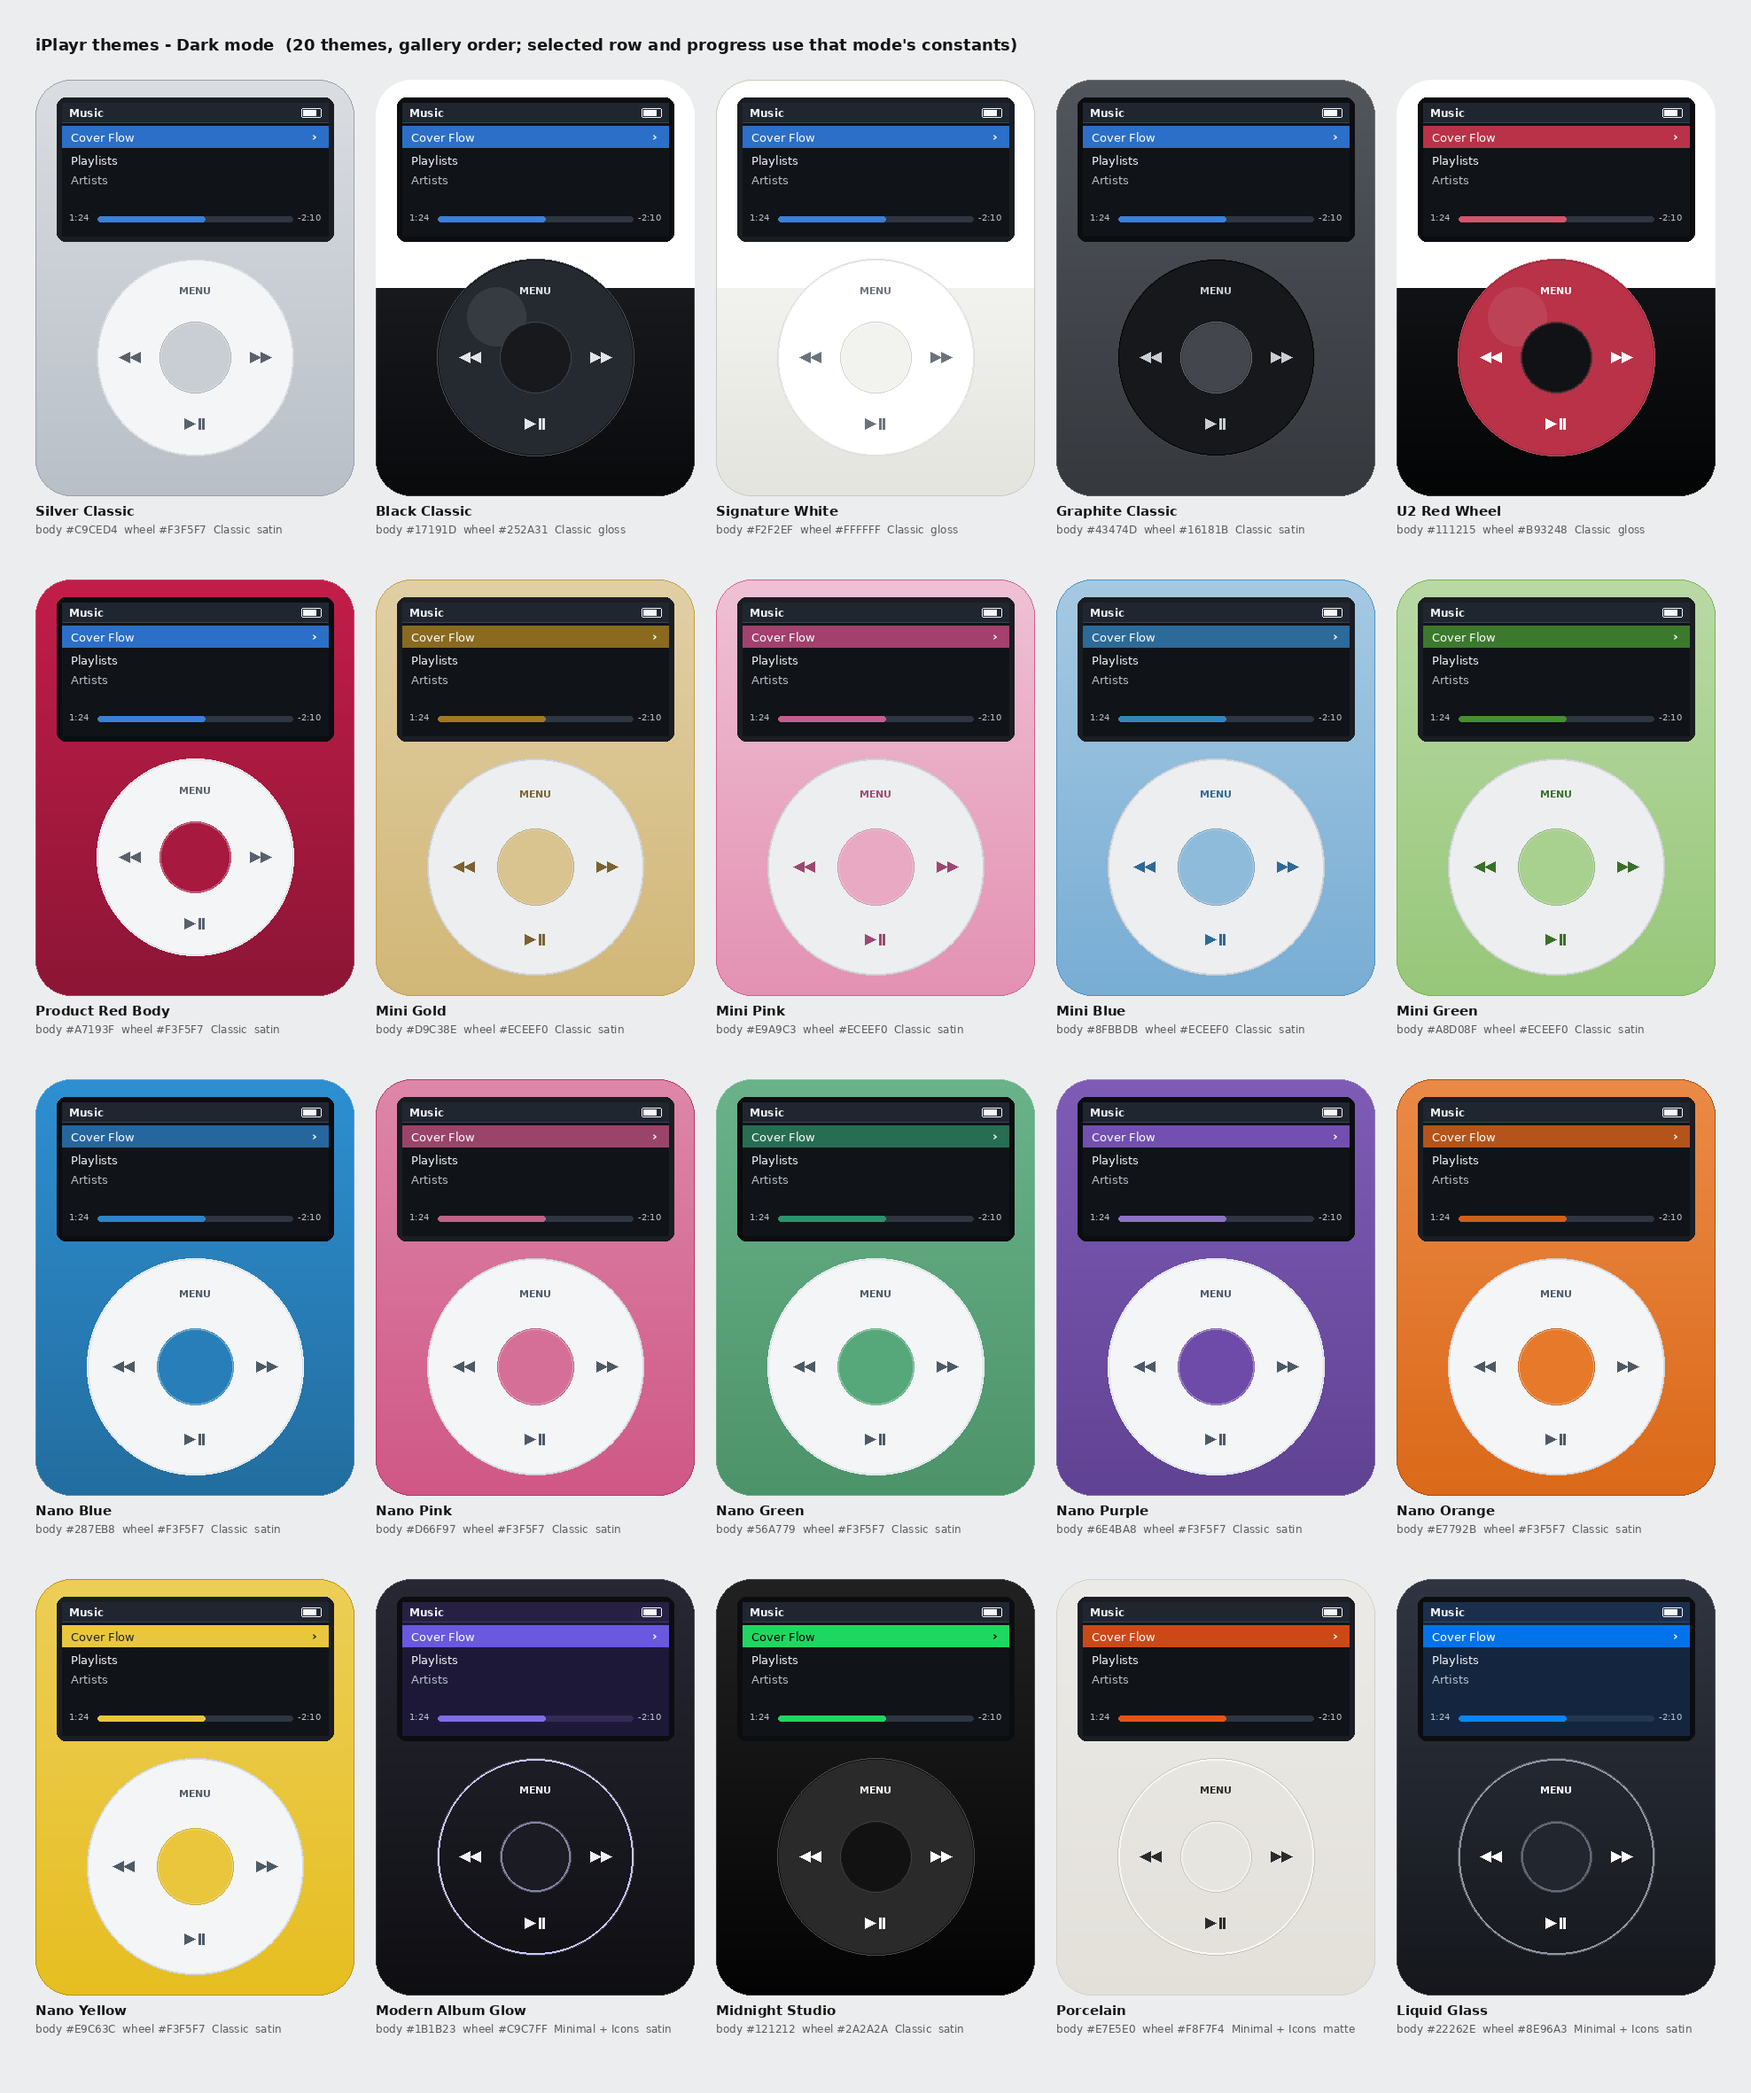
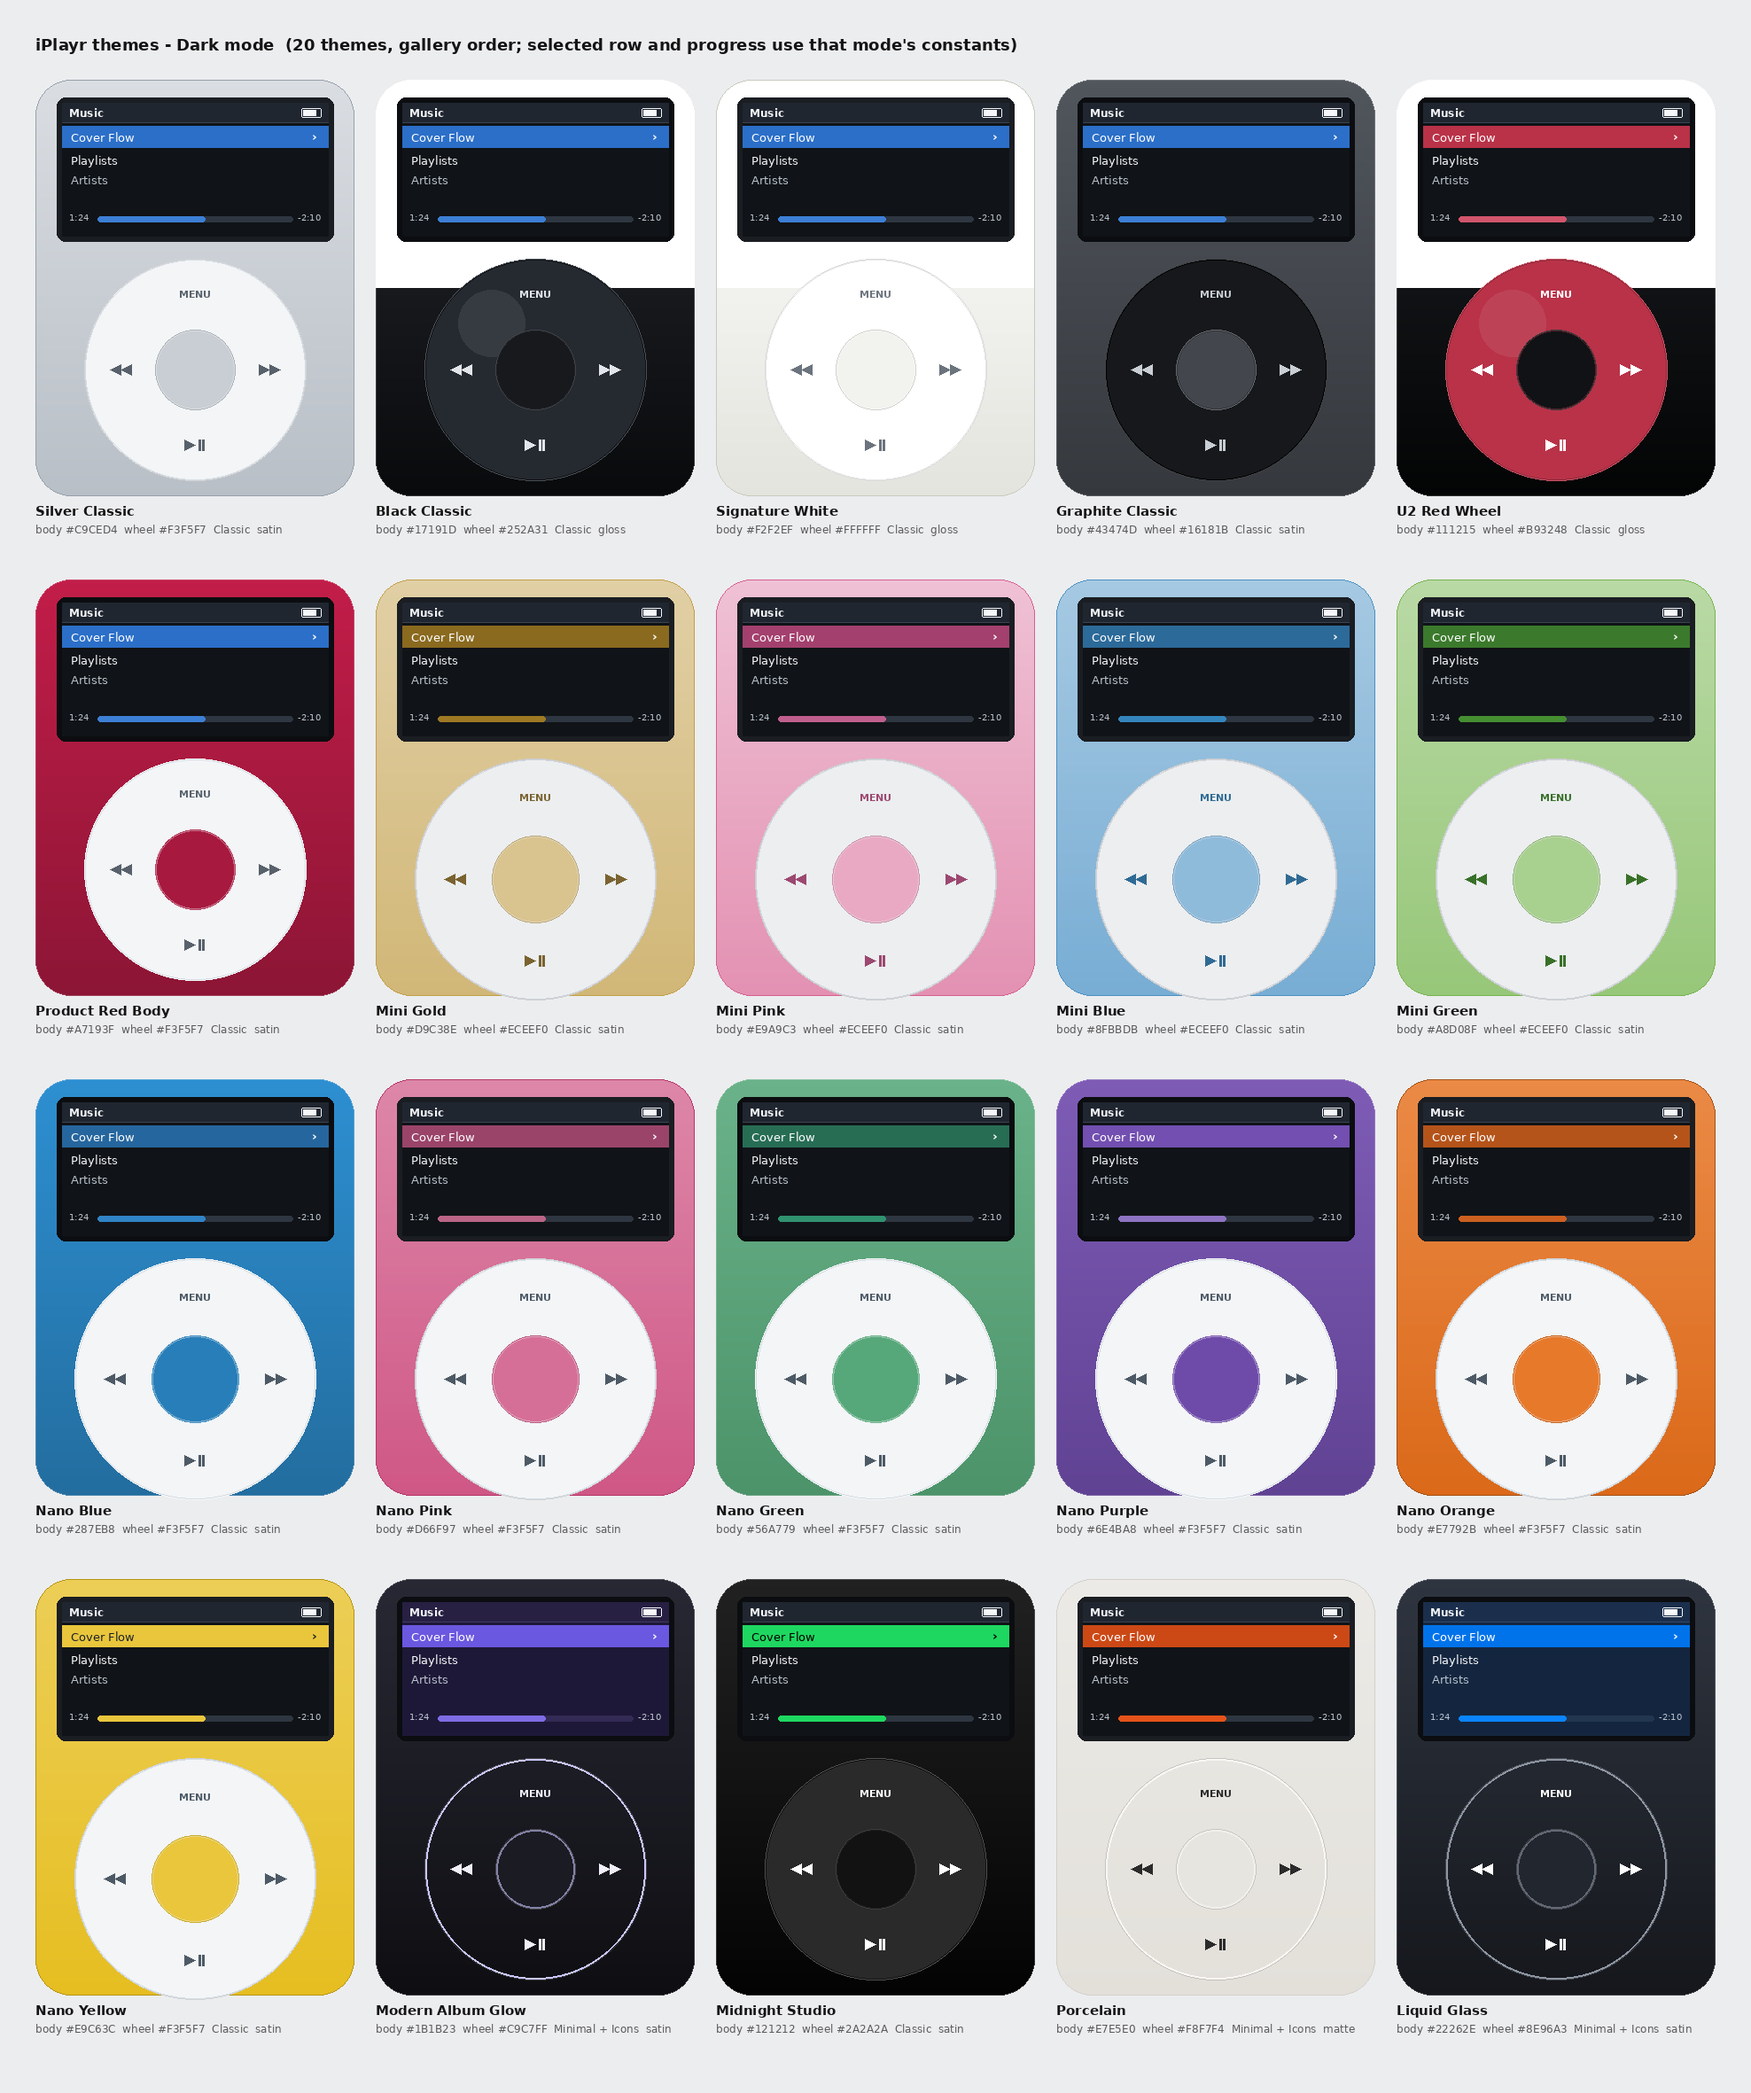
beta: BETA-03/04 larger wheel, landscape wheel at the trailing edge
Portrait wheel 70% of body width (76% compact), up from 62% / 68%. Landscape
reserves a square at the trailing edge sized by the height and fills it, so
the wheel sits toward the phone's end instead of a narrow centred column.
Contact sheets regenerated with the same ratios.

diff --git a/iPlayr/iPlayr/Components/iPodButtons.swift b/iPlayr/iPlayr/Components/iPodButtons.swift
@@ -72,7 +72,16 @@ struct WheelLook {
 
 // MARK: - The wheel
 
+/// How the wheel picks its diameter from the space it is given.
+enum WheelSizing {
+    /// Portrait: a fraction of the body width (70%, 76% on compact bodies).
+    case bodyWidth
+    /// Landscape: fill the square the layout reserves at the trailing edge.
+    case fillContainer
+}
+
 struct iPlayrButtons: View {
+    var sizing: WheelSizing = .bodyWidth
     @State private var input = WheelInputModel()
     @State private var pressedRegion: WheelRegion = .none
     @State private var pressedClearTask: Task<Void, Never>?
@@ -82,9 +91,14 @@ struct iPlayrButtons: View {
     var body: some View {
         GeometryReader { proxy in
             let spec = theme.theme
-            // 62% of the body width, 68% on compact (mini / nano) bodies.
-            let ratio: CGFloat = spec.isCompact ? 0.68 : 0.62
-            let diameter = min(proxy.size.width * ratio, proxy.size.height - WheelGeometry.slop * 2)
+            // 70% of the body width, 76% on compact (mini / nano) bodies; raised
+            // from 62% / 68% after the first device beta found the wheel too small.
+            let ratio: CGFloat = spec.isCompact ? 0.76 : 0.70
+            let available = min(proxy.size.width, proxy.size.height) - WheelGeometry.slop * 2
+            let diameter: CGFloat = switch sizing {
+            case .bodyWidth: min(proxy.size.width * ratio, available)
+            case .fillContainer: available
+            }
             let geometry = WheelGeometry(diameter: max(diameter, 44))
             let look = WheelLook(theme: spec)
 

diff --git a/iPlayr/iPlayr/Screens/Main/MainScreen.swift b/iPlayr/iPlayr/Screens/Main/MainScreen.swift
@@ -67,19 +67,26 @@ struct iPlayrView: View {
     @ViewBuilder
     private func deviceLayout(size: CGSize) -> some View {
         if size.width > size.height {
-            HStack(spacing: 12) {
+            // Screen at the leading side; the wheel gets a square at the trailing
+            // edge, as large as the height allows, instead of a narrow centred
+            // column (first beta: wheel too far inward and too small).
+            let screenWidth = min(size.height * 1.25, size.width * 0.56)
+            let wheelSide = min(size.height * 0.84, size.width - screenWidth - 56)
+            HStack(spacing: 0) {
                 iPlayrScreen()
                     .environment(iPlayrController)
                     .environment(theme)
                     .environment(immersiveFlow)
-                    .frame(width: min(size.height * 1.25, size.width * 0.56), height: 300)
-                iPlayrButtons()
+                    .frame(width: screenWidth, height: 300)
+                Spacer(minLength: 16)
+                iPlayrButtons(sizing: .fillContainer)
                     .environment(iPlayrController)
                     .environment(theme)
-                    .frame(width: min(size.height * 0.78, size.width * 0.34), height: size.height * 0.78)
+                    .frame(width: wheelSide, height: wheelSide)
             }
             .frame(maxWidth: .infinity, maxHeight: .infinity)
-            .padding(.horizontal, 8)
+            .padding(.leading, 16)
+            .padding(.trailing, 20)
         } else {
             VStack(spacing: 0) {
                 Spacer()

diff --git a/scripts/contact_sheets.py b/scripts/contact_sheets.py
@@ -131,7 +131,7 @@ def draw_cell(page, x0, y0, t, mode):
     pd.text((sx + sw - 34, py - 5), "-2:10", fill=rgb(surf["secondary"]) + (255,), font=font(10))
 
     # wheel
-    ratio = 0.68 if t["compact"] else 0.62
+    ratio = 0.76 if t["compact"] else 0.70
     dia = int(bw * ratio); cx, cy = x0 + bw // 2, sy + sh + 6 + 20 + dia // 2
     r = dia // 2
     hair = (0, 0, 0, int(255 * 0.14)) if light_body else (255, 255, 255, int(255 * 0.18))
